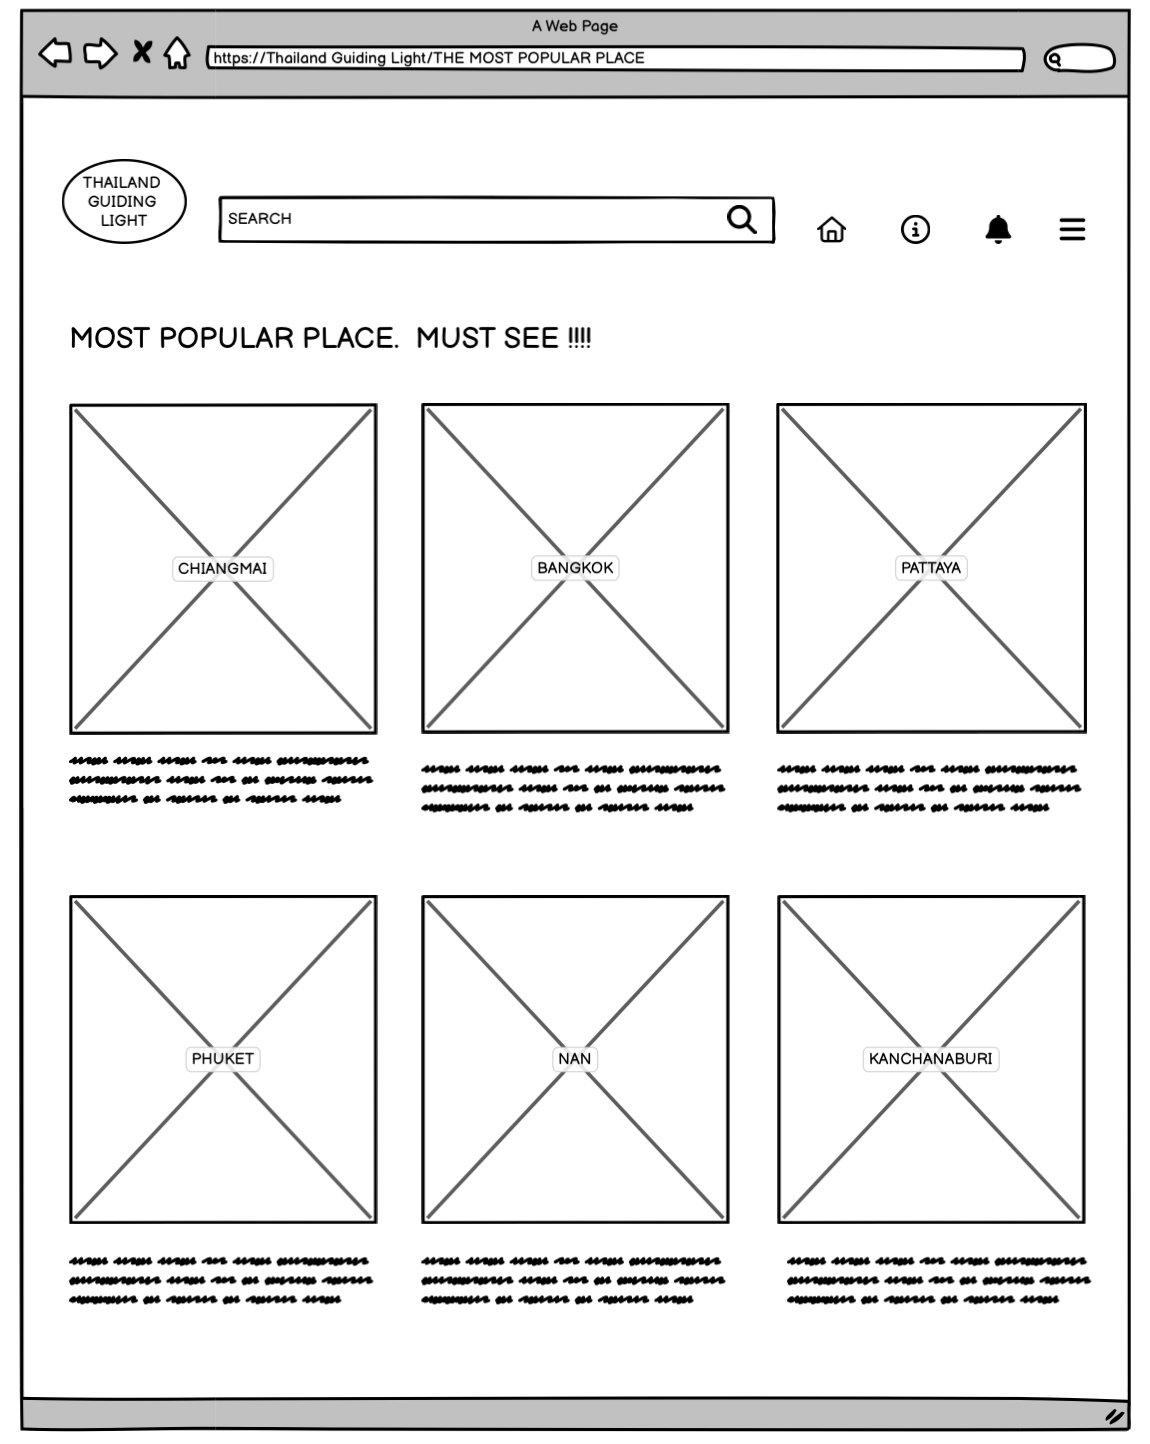
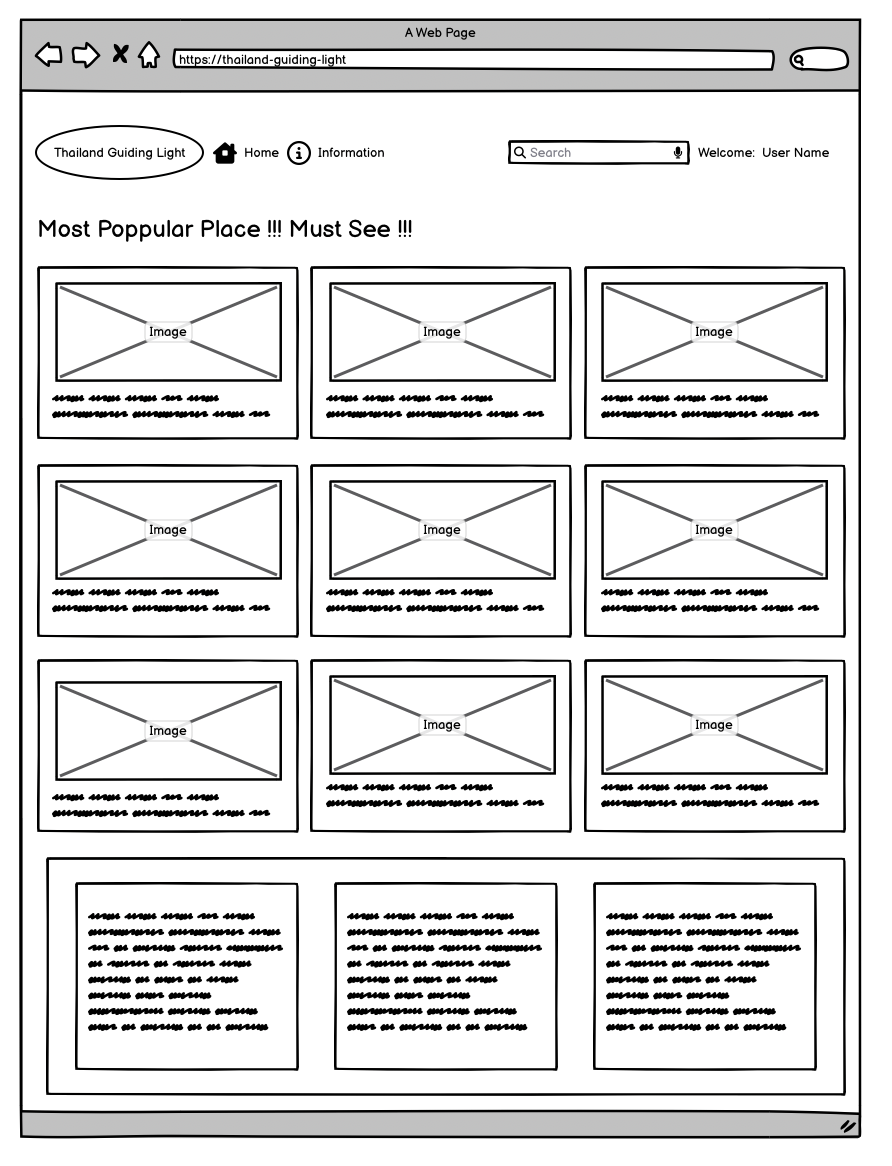
Added README.md file

Changed region(s): [[0.0, 0.0, 0.9989, 1.0]]

diff --git a/README.md b/README.md
@@ -56,11 +56,12 @@ Deployed Website: Visit Thailand Guiding Light[ Link to website](https://thailan
  ### Laptop
 - Home page
 
-![Wire frame Laptop home page1](documentation/wireframe-laptop-home-page1.png)
+![Wire frame Laptop admin home page1](documentation/wireframe-laptop-admin-home-page.png)
 
-![Wire frame Laptop home page2](documentation/wireframe-laptop-home-page2.png)
+![Wire frame Laptop user home page](documentation/wireframe-laptop-user-home-page.png)
 
-![Wire frame Laptop home page3](documentation/wireframe-laptop-home-page3.png)
+- Most popular place page
+![Wire frame Laptop most popopular place page](documentation/wireframe-laptop-most-popular-place-page.png)
 
 - Full view home page
 
